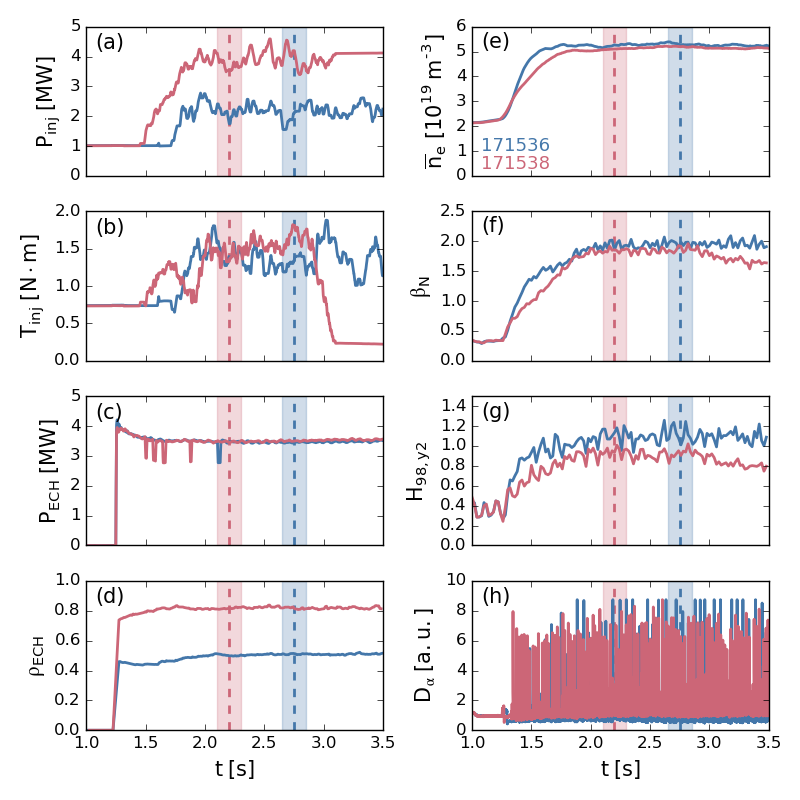
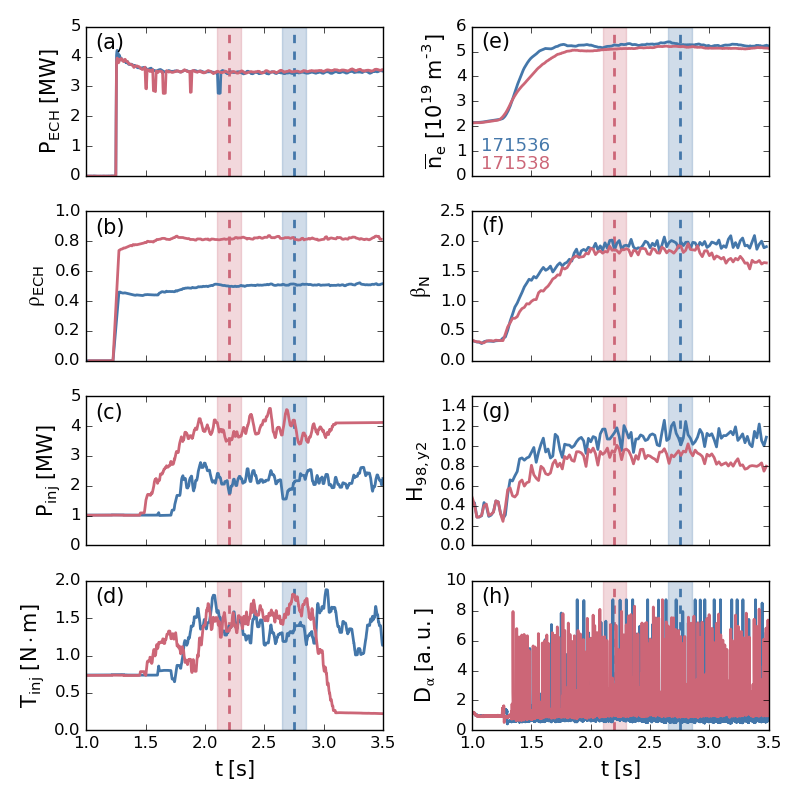
Re-ordered plasma traces so ECH location more evident

diff --git a/Chapters/TurbulenceMeasurements/figs/traces.py b/Chapters/TurbulenceMeasurements/figs/traces.py
@@ -41,6 +41,11 @@ class PointName(object):
             return np.convolve(x, box, mode='same')
 
 
+echpwrc_label = (
+    r'$\mathregular{P_{ECH}}$'
+    + r'$\;$'
+    + r'$\mathregular{[MW]}$')
+rho_ECH_label = r'$\mathregular{\rho_{ECH}}$'
 pinj_label = (
     r'$\mathregular{P_{inj}}$'
     + r'$\;$'
@@ -49,11 +54,6 @@ tinj_label = (
     r'$\mathregular{T_{inj}}$'
     + r'$\;$'
     + r'$\mathregular{[N \cdot m]}$')
-echpwrc_label = (
-    r'$\mathregular{P_{ECH}}$'
-    + r'$\;$'
-    + r'$\mathregular{[MW]}$')
-rho_ECH_label = r'$\mathregular{\rho_{ECH}}$'
 density_label = (
     r'$\mathregular{\overline{n}_e}$'
     + r'$\;$'
@@ -66,10 +66,10 @@ fs04_label = (
     + r'$\mathregular{[a.u.]}$')
 
 point_names = [
-    PointName('pinj', pinj_label, norm=1e3, Nsmooth=1000),
-    PointName('tinj', tinj_label, norm=1, Nsmooth=1000),
     PointName('echpwrc', echpwrc_label, norm=1e6, Nsmooth=100),
     PointName('rho_ECH', rho_ECH_label, norm=1),
+    PointName('pinj', pinj_label, norm=1e3, Nsmooth=1000),
+    PointName('tinj', tinj_label, norm=1, Nsmooth=1000),
     PointName('density', density_label, norm=1e13, Nsmooth=100),
     PointName('betan', betan_label, norm=1),
     PointName('H_THH98Y2', H_THH98Y2_label, norm=1),
@@ -80,9 +80,9 @@ subfig_labels = ['a', 'b', 'c', 'd', 'e', 'f', 'g', 'h']
 x0 = 1.075
 subfig_label_heights = [
     4.25,
-    1.70,
-    4.25,
     0.85,
+    4.25,
+    1.70,
     5.15,
     2.15,
     1.28,
@@ -98,9 +98,9 @@ subfig_label_heights = [
 # GA would actually FUCKING update matplotlib...)
 ylims = [
     5.,
-    2.,
-    5.,
     1.,
+    5.,
+    2.,
     6.,
     2.5,
     1.5,

diff --git a/Chapters/TurbulenceMeasurements/TurbulenceMeasurements.tex b/Chapters/TurbulenceMeasurements/TurbulenceMeasurements.tex
@@ -65,10 +65,10 @@ is intrinsically multiscale in nature~\cite{holland_nf17}.
     Chapters/TurbulenceMeasurements/figs/traces.png}
   \caption[Time histories of various actuators \& plasma parameters]{%
     Time histories of various actuators and plasma parameters:
-    (a) neutral beam injected (NBI) power $P_{\text{inj}}$,
-    (b) NBI torque $T_{\text{inj}}$,
-    (c) electron cyclotron resonance heating (ECH) power $P_{\text{ECH}}$,
-    (d) ECH location $\rho_{\text{ECH}}$,
+    (a) electron cyclotron resonance heating (ECH) power $P_{\text{ECH}}$,
+    (b) ECH location $\rho_{\text{ECH}}$,
+    (c) neutral beam injected (NBI) power $P_{\text{inj}}$,
+    (d) NBI torque $T_{\text{inj}}$,
     (e) line-averaged density $\bar{n}_e$,
     (f) normalized plasma pressure $\beta_N$,
     (g) confinement quality $H_{98,\text{y}2}$, and
